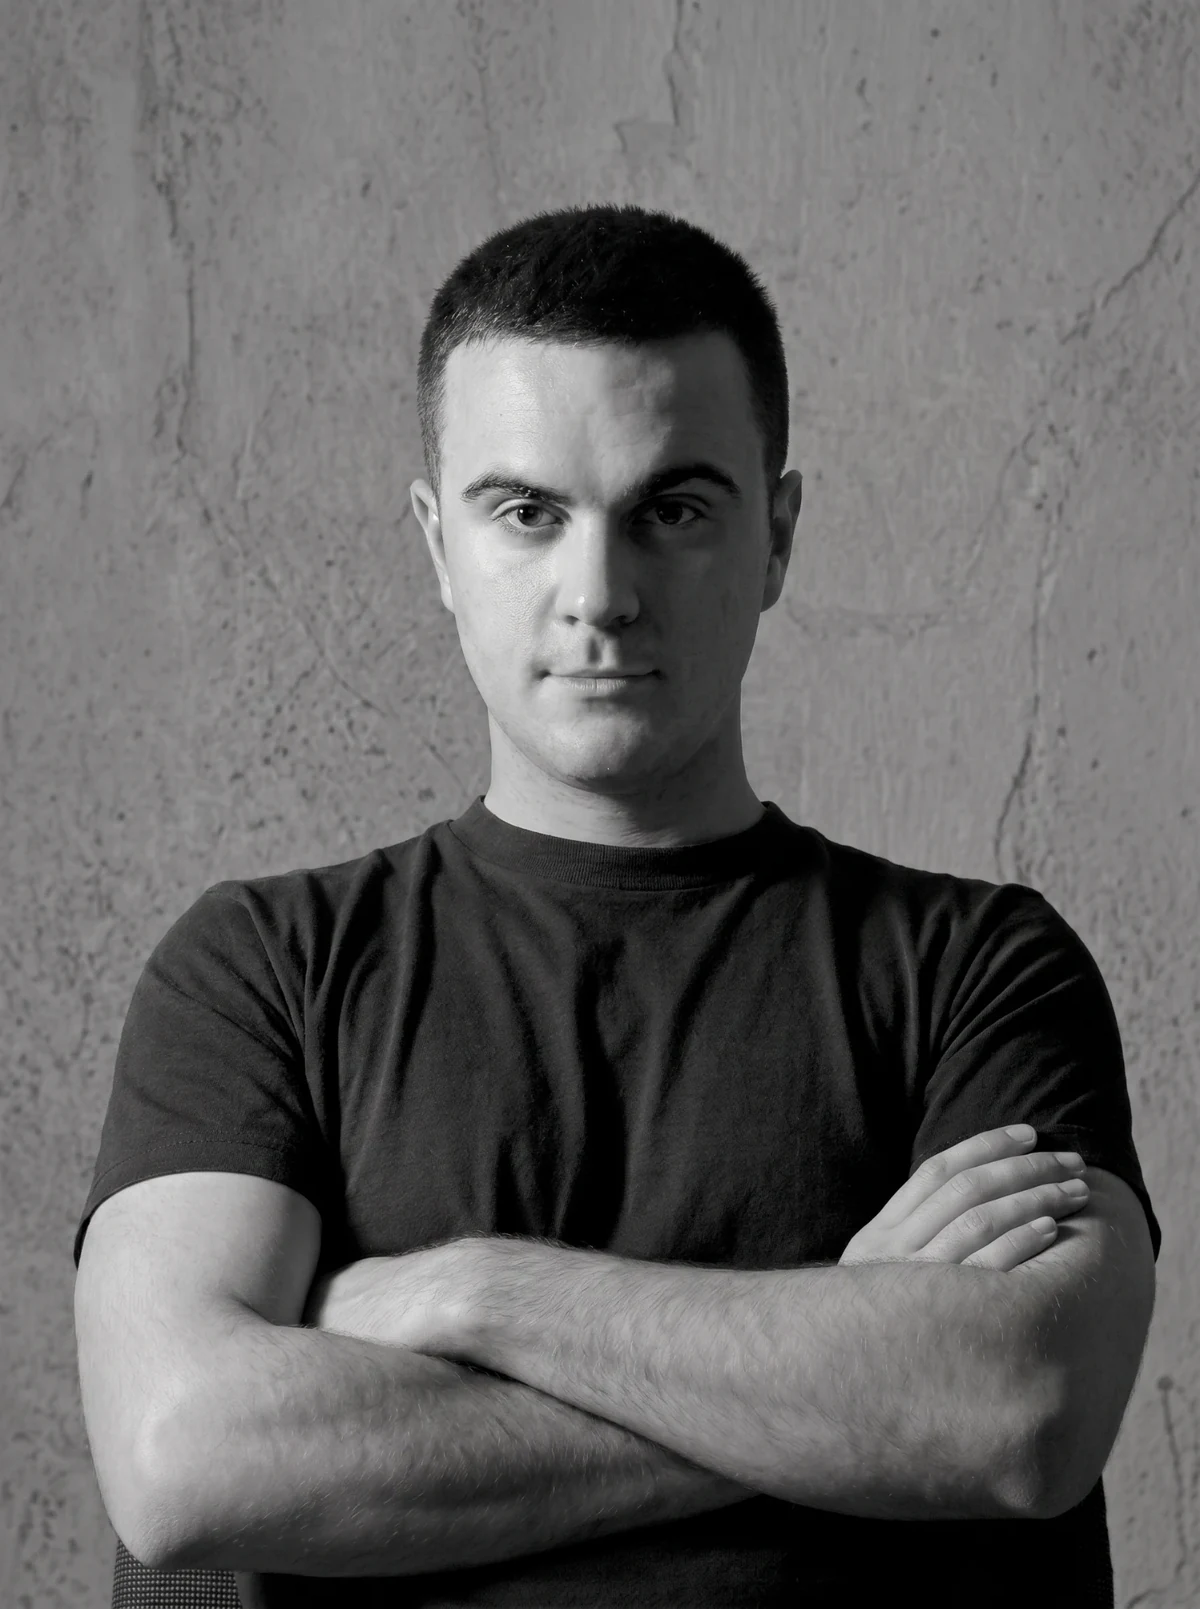
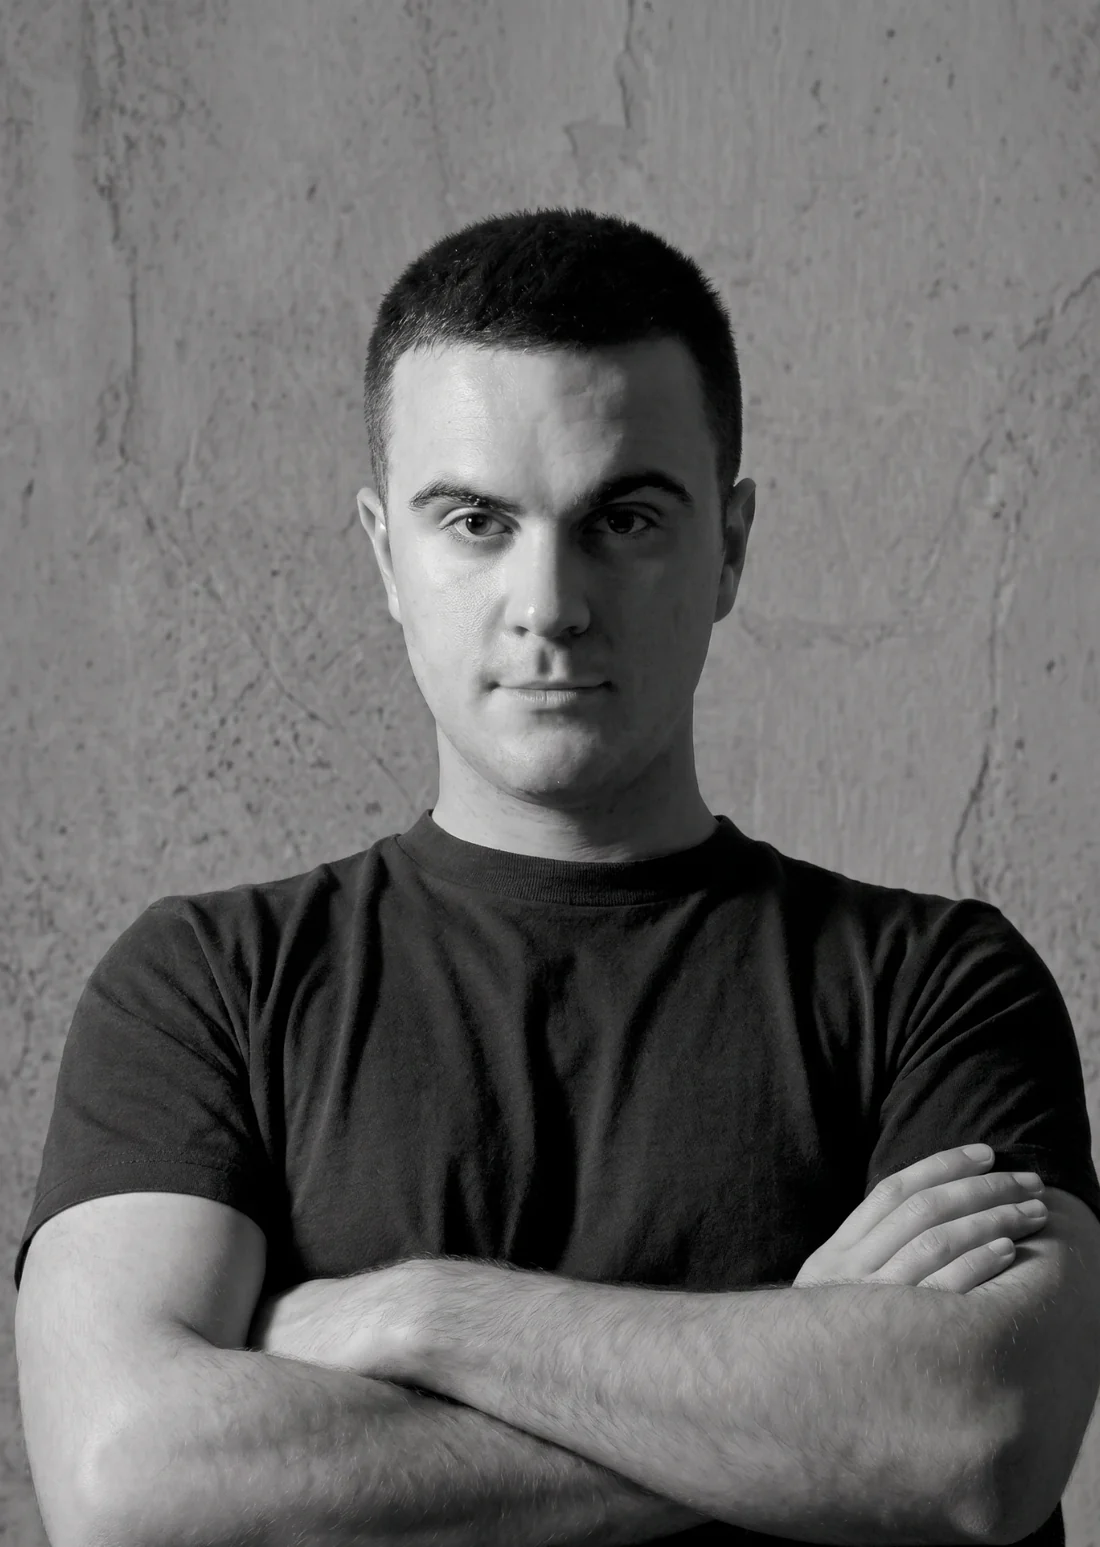
Crop the chair out of the portrait, and give the band its drop
Two things, both reported as the image "breaking into black bits".

The black bits were not the renderer: the bottom edge of the frame caught the
back of a chair, whose fine check pattern aliases into broken black dashes once
it is scaled down to a phone. The portrait is now cut just above it, at the
card face's own 1024:1440, so nothing is cropped again on the way in - 1100x1547,
114 KB, still a reduction of 0.93x onto the face.

The band is cut off at the top of the screen, so what a reader sees of it is
only the drop to the card's head: lengthening it alone would push the foot back
down over the name. The card gives up 8% to pay for it. Band 72 -> 103 visible,
foot still 396, and the 31 of air to the name is untouched.

Claude-Session: https://claude.ai/code/session_01XKVyrX7tqu722fzfac7QKe

diff --git a/assets/js/main.js b/assets/js/main.js
@@ -1216,10 +1216,13 @@
         } : {
           /* Down the middle of the screen, from the very top of it. */
           anchor: 0.5,
-          /* A touch smaller than it was, so its foot lands inside the room
-             the column holds open rather than over the name. */
-          size: 0.285,
-          strapLength: 0.04
+          /* The band is cut off at the top of the screen, so what a reader
+             sees of it is just the drop to the card's head: lengthening it
+             and keeping the card the same size would push the foot back down
+             over the name. The card gives up 8% so the band can have that
+             drop, and the foot stays where the column's room ends. */
+          size: 0.263,
+          strapLength: 0.115
         }));
         if (hung) badge.classList.add('is-hung');
         else stage.remove();

diff --git a/en/atlas.html b/en/atlas.html
@@ -238,7 +238,7 @@
       <aside class="about__side">
         <div class="about__badge" data-lanyard data-portrait="/assets/img/about-portrait.webp">
           <img class="about__photo" src="/assets/img/about-portrait.webp"
-               alt="Victor Chaves" width="1200" height="1609" loading="lazy" decoding="async">
+               alt="Victor Chaves" width="1100" height="1547" loading="lazy" decoding="async">
         </div>
         <div class="about__card">
           <p class="about__name">Victor Chaves Cerrejón</p>

diff --git a/en/barefolio.html b/en/barefolio.html
@@ -278,7 +278,7 @@
       <aside class="about__side">
         <div class="about__badge" data-lanyard data-portrait="/assets/img/about-portrait.webp">
           <img class="about__photo" src="/assets/img/about-portrait.webp"
-               alt="Victor Chaves" width="1200" height="1609" loading="lazy" decoding="async">
+               alt="Victor Chaves" width="1100" height="1547" loading="lazy" decoding="async">
         </div>
         <div class="about__card">
           <p class="about__name">Victor Chaves Cerrejón</p>

diff --git a/en/bruma.html b/en/bruma.html
@@ -241,7 +241,7 @@
       <aside class="about__side">
         <div class="about__badge" data-lanyard data-portrait="/assets/img/about-portrait.webp">
           <img class="about__photo" src="/assets/img/about-portrait.webp"
-               alt="Victor Chaves" width="1200" height="1609" loading="lazy" decoding="async">
+               alt="Victor Chaves" width="1100" height="1547" loading="lazy" decoding="async">
         </div>
         <div class="about__card">
           <p class="about__name">Victor Chaves Cerrejón</p>

diff --git a/en/fernet.html b/en/fernet.html
@@ -264,7 +264,7 @@
       <aside class="about__side">
         <div class="about__badge" data-lanyard data-portrait="/assets/img/about-portrait.webp">
           <img class="about__photo" src="/assets/img/about-portrait.webp"
-               alt="Victor Chaves" width="1200" height="1609" loading="lazy" decoding="async">
+               alt="Victor Chaves" width="1100" height="1547" loading="lazy" decoding="async">
         </div>
         <div class="about__card">
           <p class="about__name">Victor Chaves Cerrejón</p>

diff --git a/en/finissimo.html b/en/finissimo.html
@@ -234,7 +234,7 @@
       <aside class="about__side">
         <div class="about__badge" data-lanyard data-portrait="/assets/img/about-portrait.webp">
           <img class="about__photo" src="/assets/img/about-portrait.webp"
-               alt="Victor Chaves" width="1200" height="1609" loading="lazy" decoding="async">
+               alt="Victor Chaves" width="1100" height="1547" loading="lazy" decoding="async">
         </div>
         <div class="about__card">
           <p class="about__name">Victor Chaves Cerrejón</p>

diff --git a/en/idle.html b/en/idle.html
@@ -236,7 +236,7 @@
       <aside class="about__side">
         <div class="about__badge" data-lanyard data-portrait="/assets/img/about-portrait.webp">
           <img class="about__photo" src="/assets/img/about-portrait.webp"
-               alt="Victor Chaves" width="1200" height="1609" loading="lazy" decoding="async">
+               alt="Victor Chaves" width="1100" height="1547" loading="lazy" decoding="async">
         </div>
         <div class="about__card">
           <p class="about__name">Victor Chaves Cerrejón</p>

diff --git a/en/index.html b/en/index.html
@@ -561,7 +561,7 @@
       <aside class="about__side">
         <div class="about__badge" data-lanyard data-portrait="/assets/img/about-portrait.webp">
           <img class="about__photo" src="/assets/img/about-portrait.webp"
-               alt="Victor Chaves" width="1200" height="1609" loading="lazy" decoding="async">
+               alt="Victor Chaves" width="1100" height="1547" loading="lazy" decoding="async">
         </div>
         <div class="about__card">
           <p class="about__name">Victor Chaves Cerrejón</p>

diff --git a/en/kinvo.html b/en/kinvo.html
@@ -245,7 +245,7 @@
       <aside class="about__side">
         <div class="about__badge" data-lanyard data-portrait="/assets/img/about-portrait.webp">
           <img class="about__photo" src="/assets/img/about-portrait.webp"
-               alt="Victor Chaves" width="1200" height="1609" loading="lazy" decoding="async">
+               alt="Victor Chaves" width="1100" height="1547" loading="lazy" decoding="async">
         </div>
         <div class="about__card">
           <p class="about__name">Victor Chaves Cerrejón</p>

diff --git a/en/nagori.html b/en/nagori.html
@@ -243,7 +243,7 @@
       <aside class="about__side">
         <div class="about__badge" data-lanyard data-portrait="/assets/img/about-portrait.webp">
           <img class="about__photo" src="/assets/img/about-portrait.webp"
-               alt="Victor Chaves" width="1200" height="1609" loading="lazy" decoding="async">
+               alt="Victor Chaves" width="1100" height="1547" loading="lazy" decoding="async">
         </div>
         <div class="about__card">
           <p class="about__name">Victor Chaves Cerrejón</p>

diff --git a/en/nonvero.html b/en/nonvero.html
@@ -245,7 +245,7 @@
       <aside class="about__side">
         <div class="about__badge" data-lanyard data-portrait="/assets/img/about-portrait.webp">
           <img class="about__photo" src="/assets/img/about-portrait.webp"
-               alt="Victor Chaves" width="1200" height="1609" loading="lazy" decoding="async">
+               alt="Victor Chaves" width="1100" height="1547" loading="lazy" decoding="async">
         </div>
         <div class="about__card">
           <p class="about__name">Victor Chaves Cerrejón</p>

diff --git a/en/nox.html b/en/nox.html
@@ -242,7 +242,7 @@
       <aside class="about__side">
         <div class="about__badge" data-lanyard data-portrait="/assets/img/about-portrait.webp">
           <img class="about__photo" src="/assets/img/about-portrait.webp"
-               alt="Victor Chaves" width="1200" height="1609" loading="lazy" decoding="async">
+               alt="Victor Chaves" width="1100" height="1547" loading="lazy" decoding="async">
         </div>
         <div class="about__card">
           <p class="about__name">Victor Chaves Cerrejón</p>
